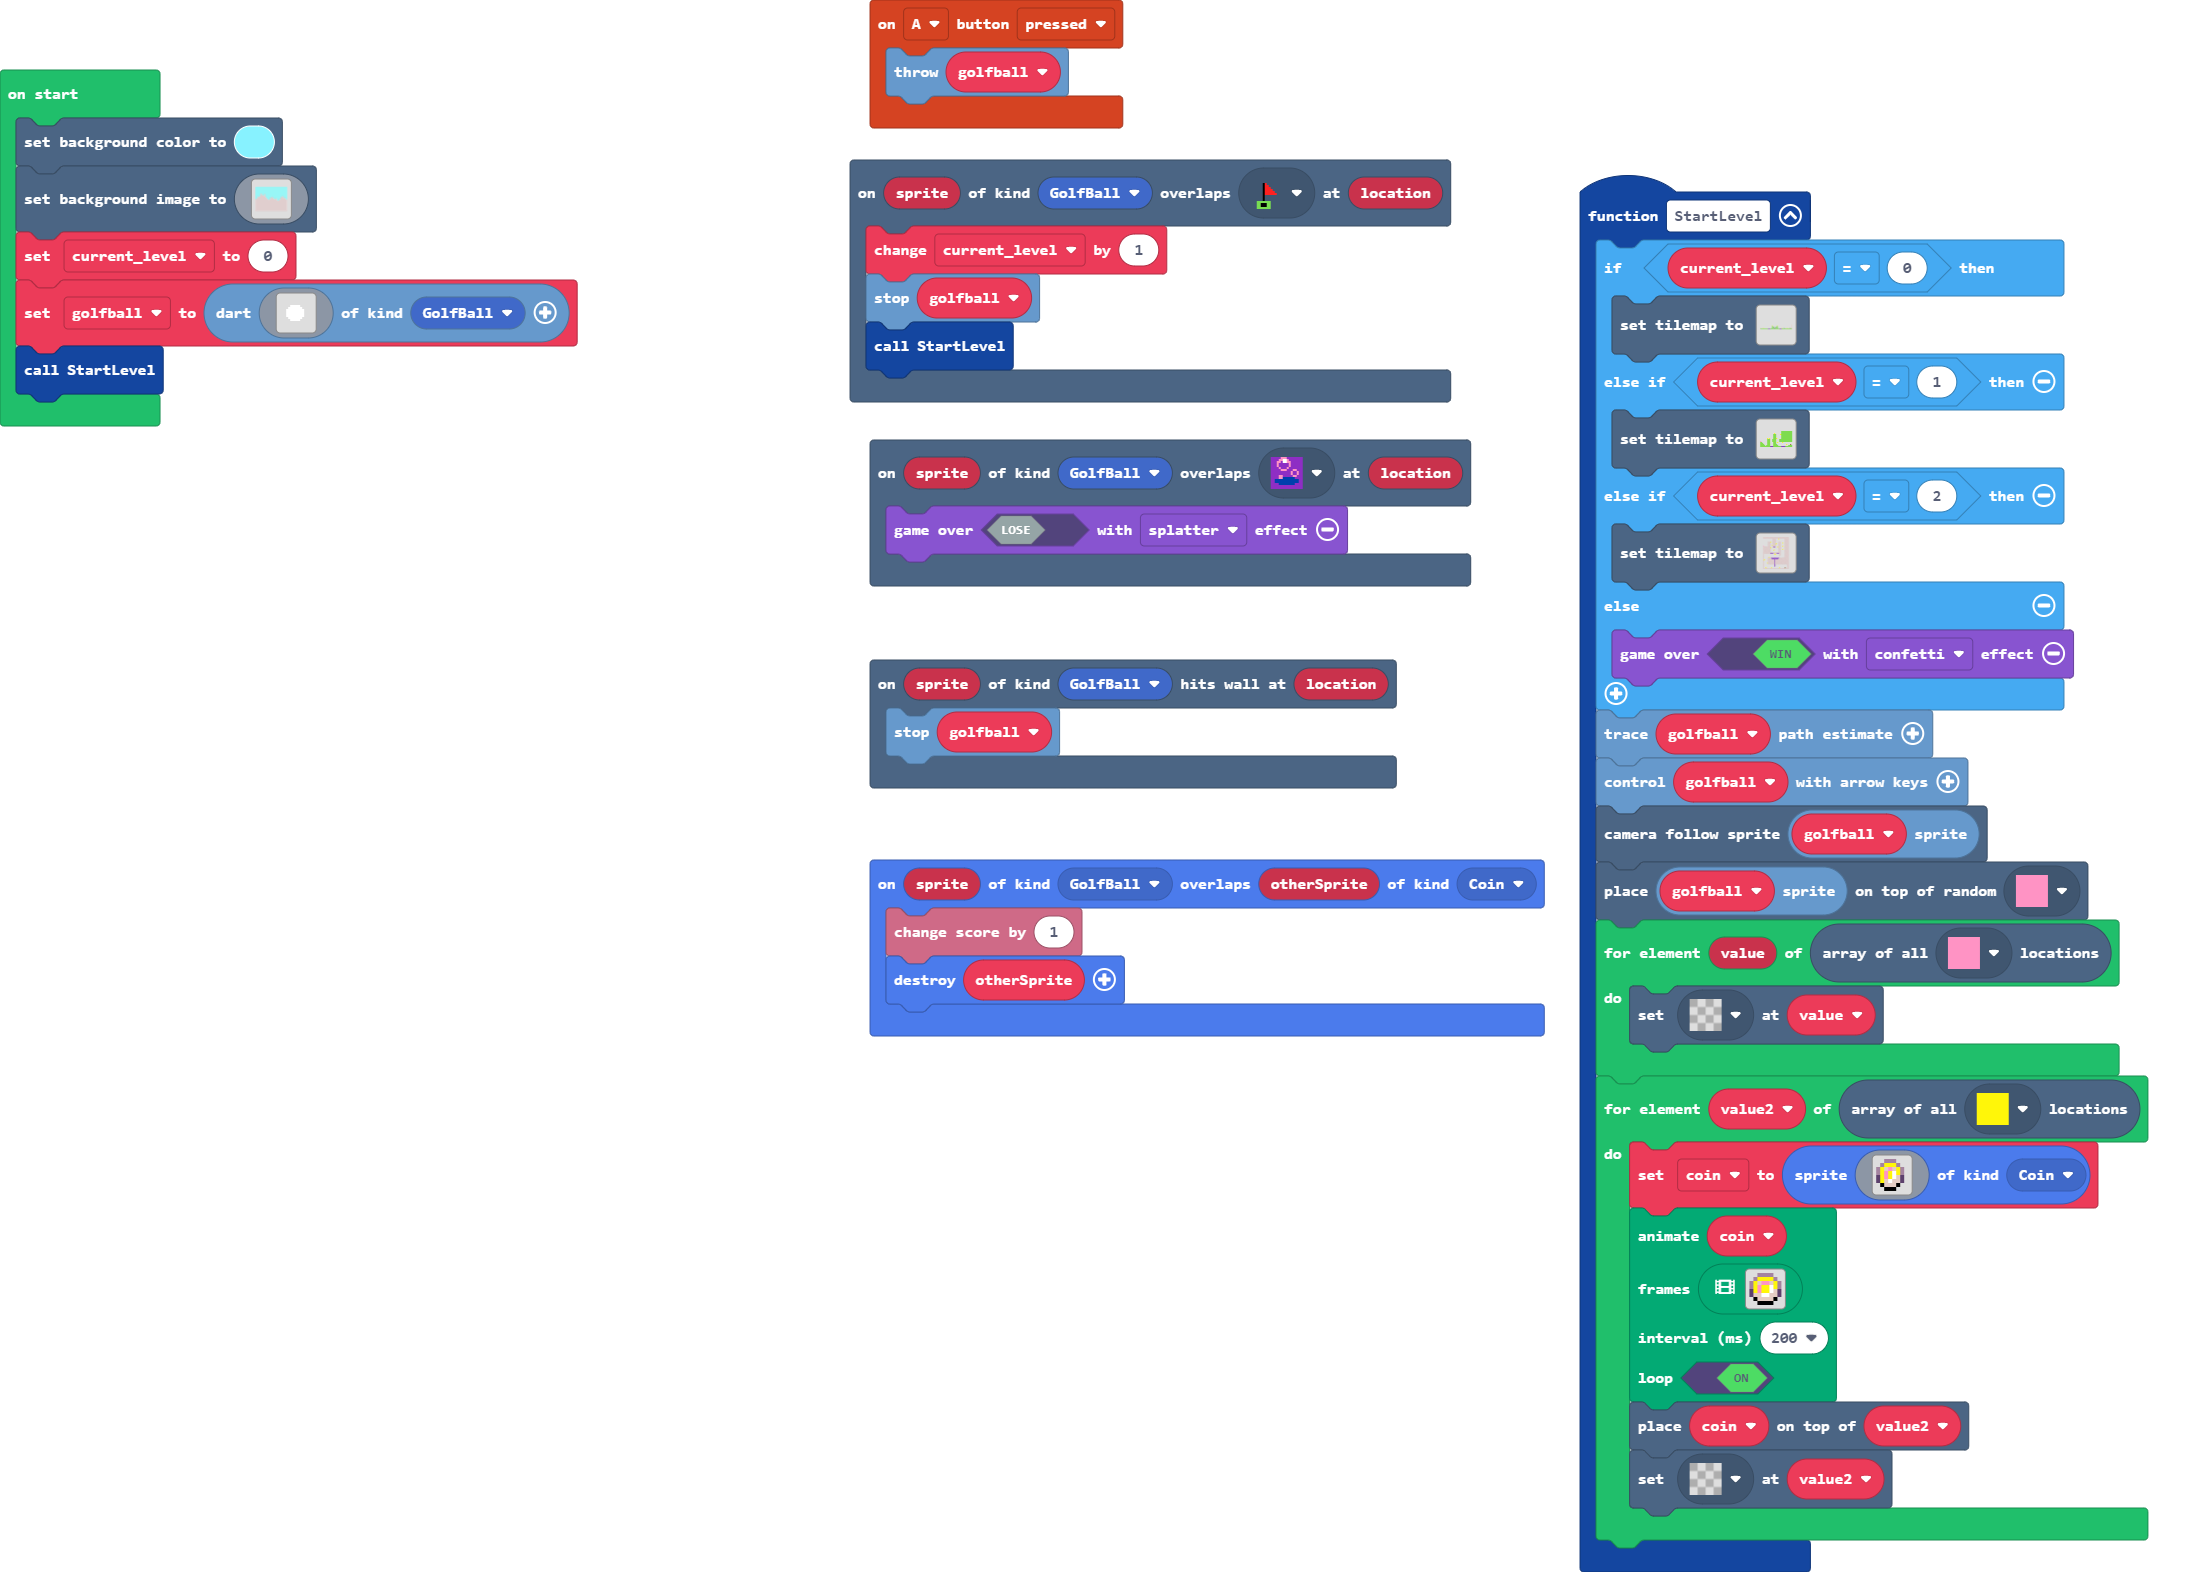
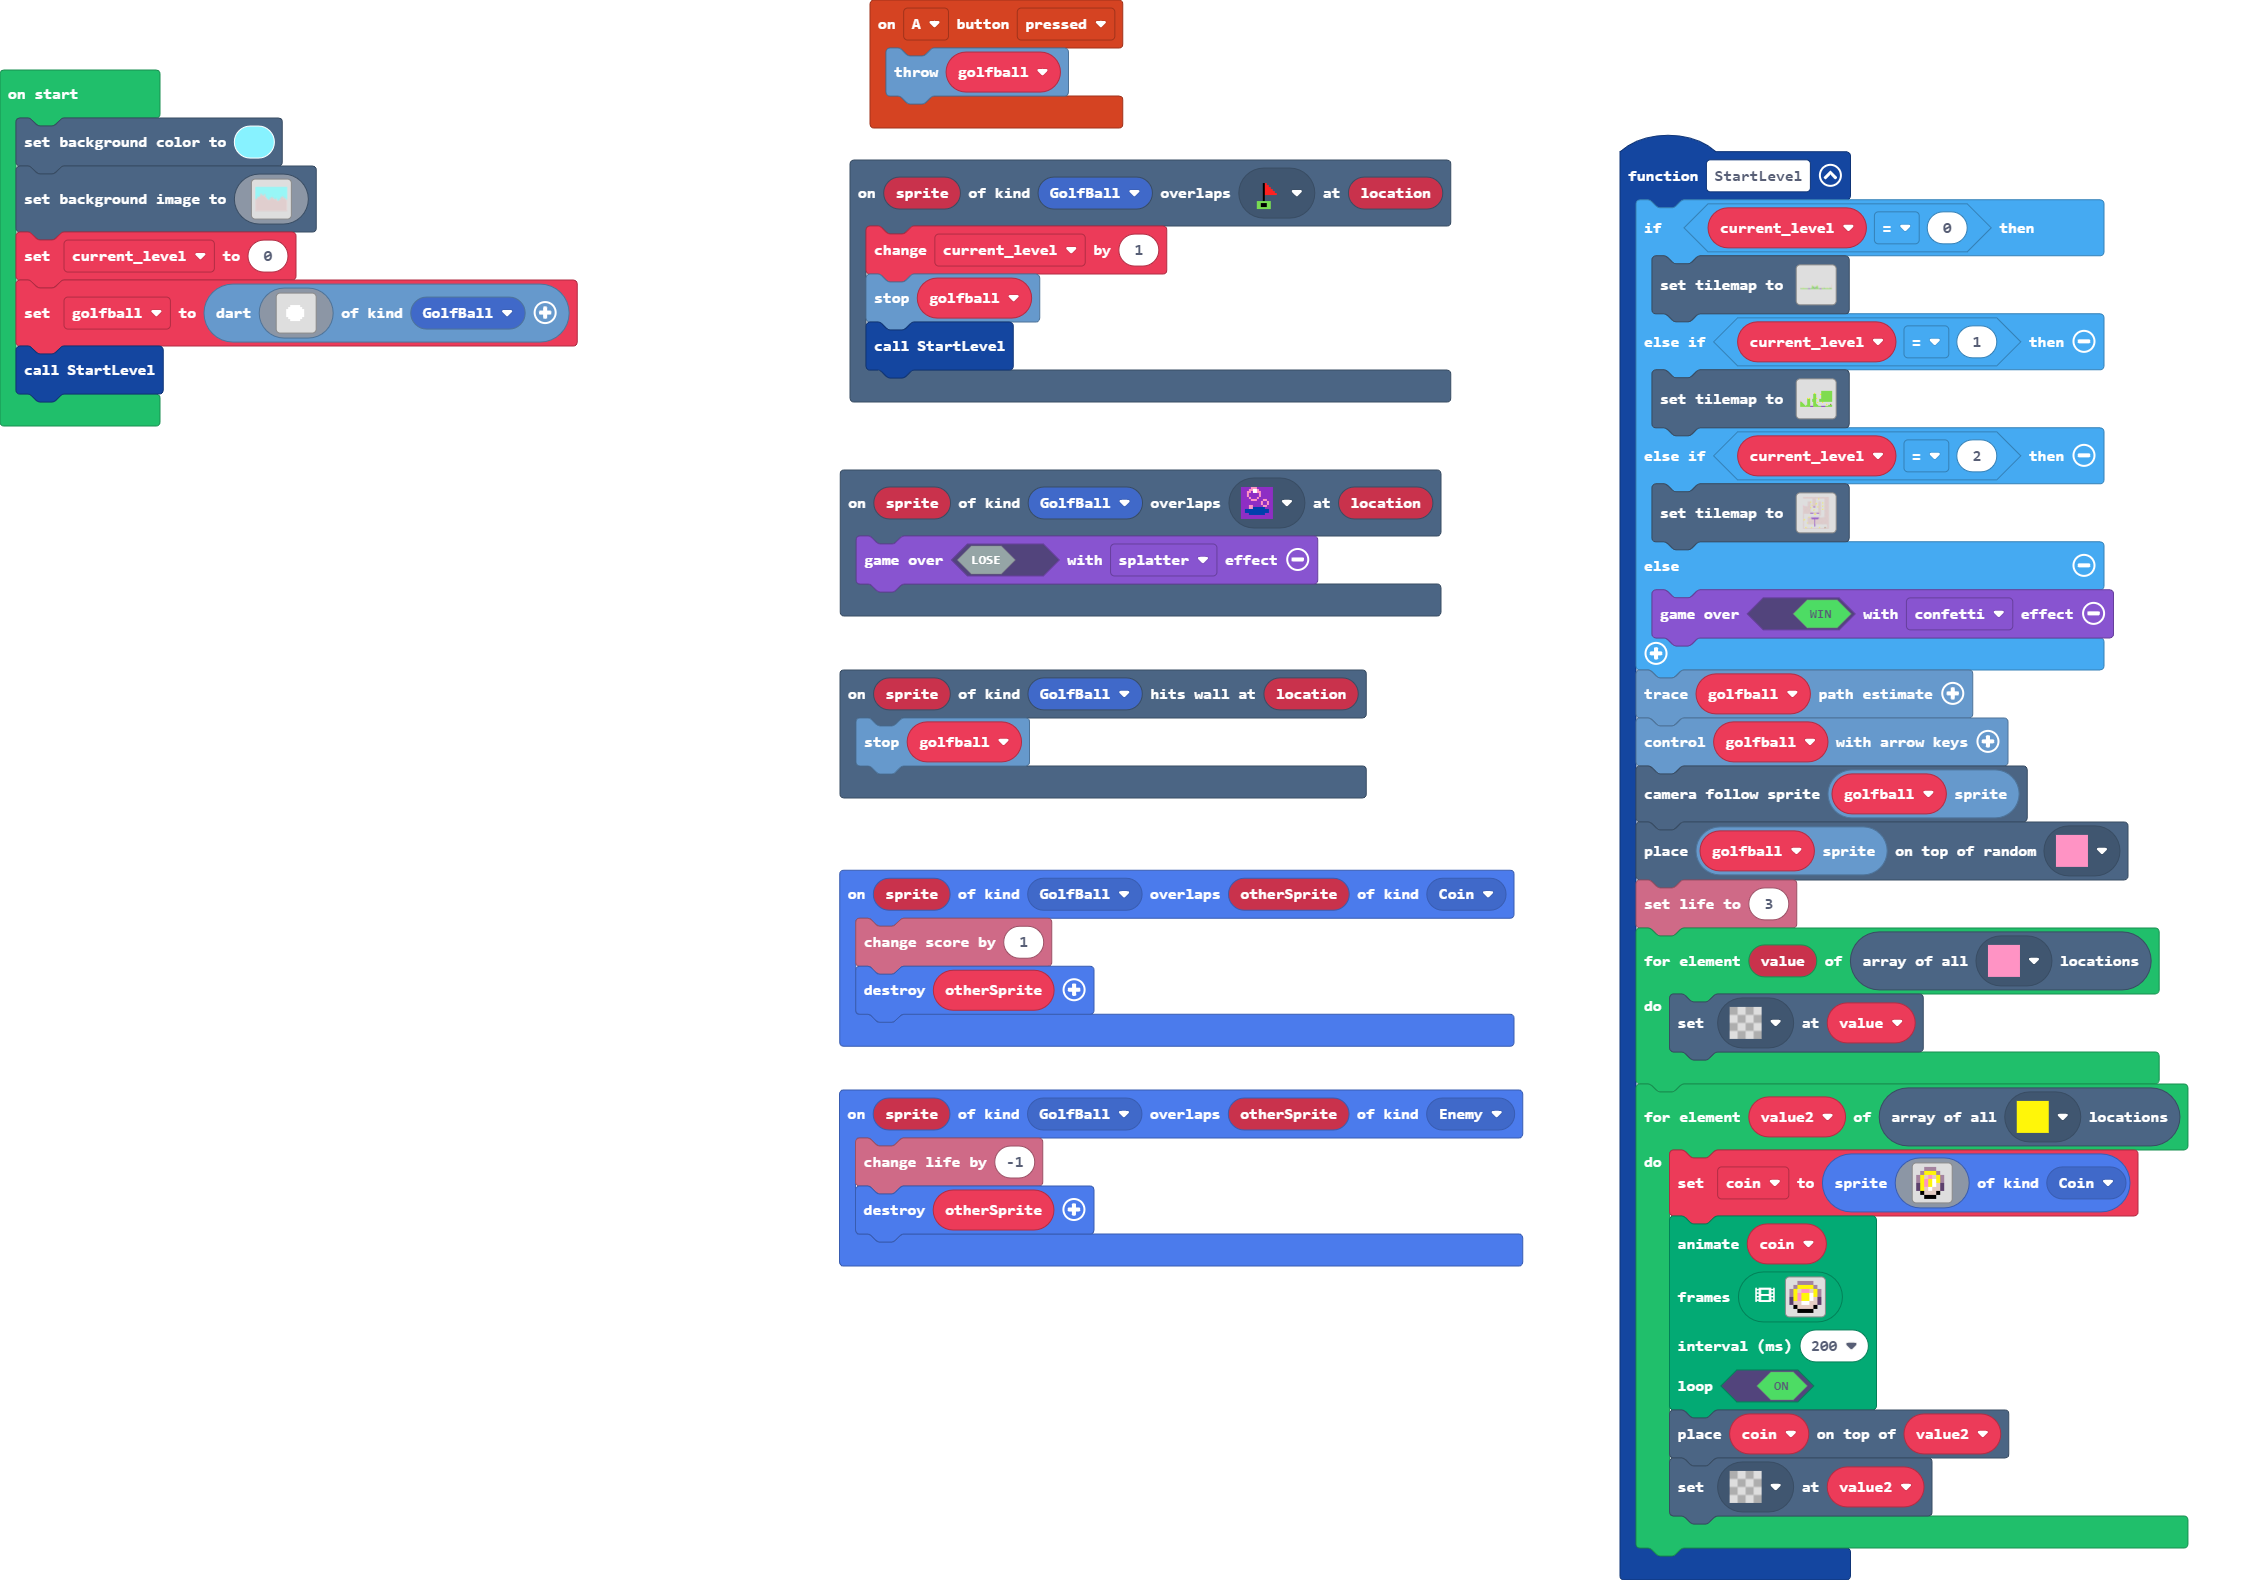
Update main.blocks, main.ts

diff --git a/main.ts b/main.ts
@@ -17,6 +17,7 @@ function StartLevel () {
     golfball.controlWithArrowKeys()
     scene.cameraFollowSprite(golfball.sprite)
     tiles.placeOnRandomTile(golfball.sprite, assets.tile`myTile0`)
+    info.setLife(3)
     for (let value of tiles.getTilesByType(assets.tile`myTile0`)) {
         tiles.setTileAt(value, assets.tile`transparency16`)
     }
@@ -102,6 +103,10 @@ scene.onOverlapTile(SpriteKind.GolfBall, assets.tile`myTile`, function (sprite, 
 })
 controller.A.onEvent(ControllerButtonEvent.Pressed, function () {
     golfball.throwDart()
+})
+sprites.onOverlap(SpriteKind.GolfBall, SpriteKind.Enemy, function (sprite, otherSprite) {
+    info.changeLifeBy(-1)
+    otherSprite.destroy()
 })
 scene.onOverlapTile(SpriteKind.GolfBall, sprites.swamp.swampTile13, function (sprite, location) {
     game.over(false, effects.splatter)
